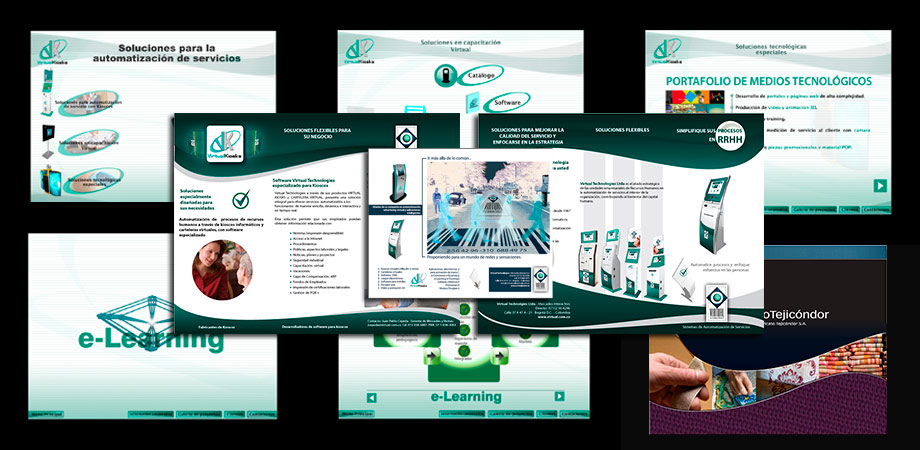
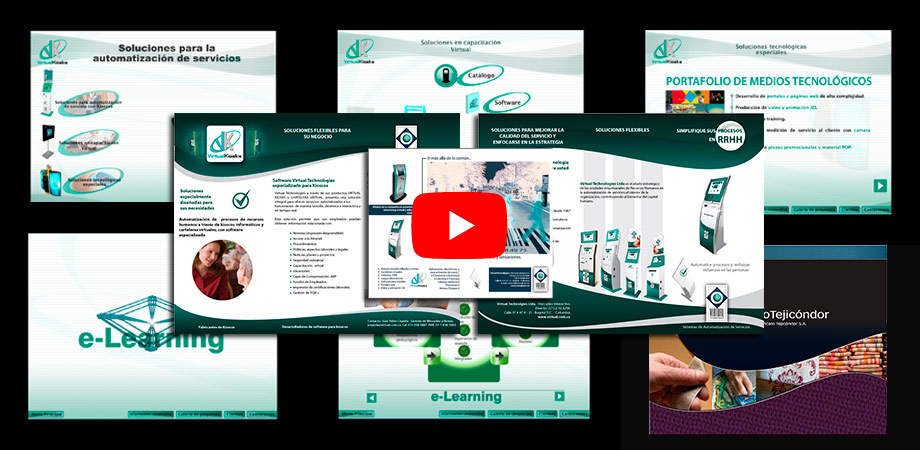
full responsive iframe is done

Changed region(s): [[0.4261, 0.4044, 0.5783, 0.5911]]

diff --git a/scss/flutest.scss b/scss/flutest.scss
@@ -22,13 +22,7 @@
 				.scrollerTittle{
 					display: $mobileScroll;
 				}
-				.descriptors{
-					display:$infoDetail !important; 
-					color:#666;
-					font-size:$sizeInfo !important;
-					font-family: "cyberfont";
-					font-weight:200;
-				}
+			
 				
 				#sektorZero{
 					width:100%; 
@@ -52,7 +46,6 @@
 					height:500px;
 					background-color:#FFF;
 					cursor:pointer;
-					position:relative;
 					animation:myMove 3s;
 					animation-duration:1s;
 					/* Firefox */
@@ -64,15 +57,46 @@
 					/* Opera */
 					-o-animation:myMove 3s;
 					-o-animation-duration:1s;
+					
+					position: relative;
+    				overflow: hidden;
+    				padding-top: 48vh;
+					
+					.media:hover{
+						cursor: pointer;
+					}
+					.dataDesc{
+						background-color: #012F40;
+						opacity: 0.6;
+						.descriptors{
+							position: relative;
+							display:$infoDetail !important; 
+							color:#03BBFF;
+							font-size:$sizeInfo !important;
+							font-family: "cyberfont";
+							font-weight:200;
+							padding-bottom: 5px;
+						
+						}
+					}
+					
+					
+				
 					a{
-						color: #03b7fa;
+						color: white;
 						font-size:18px;
 						font-weight:bolder;
 
 					}
+					
 					iframe{
+						position: absolute;
+						top: 0;
+						left: 0;
 						width: 100%;
-						height:42vh;
+						height: 100%;
+						border: 0;
+						
 					}
 					
 				}

diff --git a/js/translate.js b/js/translate.js
@@ -16,6 +16,8 @@ $(function(){
 			$(this).on('click', function (event) {
 				if(media != null){
 					document.getElementById(place).src = media;
+					document.getElementById(place).style.width = "100%";
+					document.getElementById(place).style.height = "50vh";
 				}
 			});
 		});

diff --git a/scss/flutest.css b/scss/flutest.css
@@ -1,0 +1,3 @@
+@font-face {
+  font-family: 'cyberfont';
+  src: url(../fonts/OCRAEXT.TTF) format("truetype"); }

diff --git a/sessions/contact.php b/sessions/contact.php
@@ -9,7 +9,7 @@
 </head>
 
 <body>
-	
+	<div style="overflow-x:auto;">
 	<table>
 		<tr>
 			
@@ -38,7 +38,7 @@
 			
 			
 			
-			<td>
+			<td style="top: 0px;">
 				 
 			 	<form action="sessions/contacto/phpmailer/enviarCorreo.php" method="post" name="form1" id="form1" onsubmit="MM_validateForm('nombres','','R','empresa','','R','email','','RisEmail','ciudad','','R','telefono','','RisNum','mensaje','','R');return document.MM_returnValue">
 				 	Name<br>
@@ -53,7 +53,39 @@
 				 	E-mail<br>
           		 	<input name="email" type="text" size="39" id="email" border="0"/><br>
 				 
-				 	Country<br>
+				 
+				 	Phone<br>
+            			<input name="telefono" type="text" size="40" id="telefono" border="0"/><br>
+					Message:<br>
+            		<textarea name="mensaje"  cols="40" rows="2" id="mensaje" border="0"></textarea><br>
+				
+				 	<h5>All form spaces are required,we dont send massive mail to our costumers</h5>
+					<div class="g-recaptcha" data-sitekey="6LepvUMUAAAAAAYQ6_9ItBa6TFX6CWKl7SL5i-LK"></div>
+				 
+					<input type="submit" name="Submit" value="Send mail"> <input type="reset" name="Submit2" value="Restore" />
+				
+				</form>
+				<script src='https://www.google.com/recaptcha/api.js?hl=en'></script>
+		    </td>
+			
+			
+    	
+			
+			
+		</tr>
+	</table>
+</div>
+  
+</body>
+
+	
+</html>
+
+
+
+<!--
+
+	Country<br>
           		
 						<select name="pais" id="pais" border="0">
 							<option value="NoPlace" >:::::::::::::::::::::Choose your country:::::::::::::::::::::</option>
@@ -309,29 +341,4 @@
 				 
 					City<br>
             			<input name="ciudad" type="text" id="ciudad" size="39" border="0" /><br>
-				 	Phone<br>
-            			<input name="telefono" type="text" size="40" id="telefono" border="0"/><br>
-					Message:<br>
-            		<textarea name="mensaje"  cols="40" rows="7" id="mensaje" border="0"></textarea><br>
-				
-				 	<h5>All form spaces are required,we dont send massive mail to our costumers</h5>
-					<div class="g-recaptcha" data-sitekey="6LepvUMUAAAAAAYQ6_9ItBa6TFX6CWKl7SL5i-LK"></div>
-				 
-					<input type="submit" name="Submit" value="Send mail"> <input type="reset" name="Submit2" value="Restore" />
-				
-				</form>
-				<script src='https://www.google.com/recaptcha/api.js?hl=en'></script>
-		    </td>
-			
-			
-    	
-			
-			
-		</tr>
-	</table>
-
-  
-</body>
-
-	
-</html>
+-->

diff --git a/sessions/infoSection.php b/sessions/infoSection.php
@@ -13,7 +13,13 @@
 <link href="../css/menu.css" rel="stylesheet" type="text/css" />
 </head>
 <body>
- <div class="boxShow" align="center"><iframe class="media"  id="spot1" src = "" frameborder="0" scrolling="no"></iframe><div id="descriptorInfo1" class="descriptors"></div><br><div id="descriptorInfo2" class="descriptors"></div><br><div id="descriptorInfo3" class="descriptors"></div><br> &lt;<a>&#129172; back to menu</a></div>
+ <div class="boxShow" align="center"><iframe class="media"  id="spot1" src = "" frameborder="0" scrolling="no" allowfullscreen></iframe>
+	 <div class="dataDesc"> 
+		 <div id="descriptorInfo1" class="descriptors"></div>
+		 <div id="descriptorInfo2" class="descriptors"></div>
+		 <div id="descriptorInfo3" class="descriptors"></div>
+		<a>&#129172; back to menu</a></div>
+	 </div>
  
   <div class="menuInfo">
  	<div class="scrollerTittle"><a>Scroll and click image to see info</a></div>

diff --git a/sessions/learnSection.php b/sessions/learnSection.php
@@ -11,7 +11,13 @@
 <link href="../css/menu.css" rel="stylesheet" type="text/css" />
 </head>
 <body>
-<div class="boxShow" align="center"><iframe class="media" id="spot2" src = "" frameborder="0" scrolling="no"></iframe><div id="descriptorLearn1"  class="descriptors"></div><p><div id="descriptorLearn2"  class="descriptors"></div></p><p><div id="descriptorLearn3"  class="descriptors"></div></p><p> &lt; <br><a>&#129172; back to menu</a></div>
+<div class="boxShow" align="center"><iframe class="media" id="spot2" src = "" frameborder="0" scrolling="no"></iframe>
+	<div class="dataDesc"> 
+		<div id="descriptorLearn1"  class="descriptors"></div>
+		<div id="descriptorLearn2"  class="descriptors"></div>
+		<div id="descriptorLearn3"  class="descriptors"></div>
+		<a>&#129172; back to menu</a></div>
+	</div>
 
 <div  class="menuInfo">
  <div class="scrollerTittle"><a>Scroll and click image to see info</a></div>

diff --git a/sessions/funnySection.php b/sessions/funnySection.php
@@ -12,7 +12,13 @@
 </head>
 
 <body>
-<div class="boxShow" align="center"><iframe class="media" id="spot3" src = "" frameborder="0" scrolling="no"></iframe><div id="descriptorFun1" class="descriptors"></div><p><div id="descriptorFun2" class="descriptors"></div></p><p><div id="descriptorFun3" class="descriptors"></div></p><br> &lt; <a>&#129172; back to menu</a></div>
+<div class="boxShow" align="center"><iframe class="media" id="spot3" src = "" frameborder="0" scrolling="no"></iframe>
+	<div class="dataDesc"> 
+		<div id="descriptorFun1" class="descriptors"></div>
+		<div id="descriptorFun2" class="descriptors"></div>
+		<div id="descriptorFun3" class="descriptors"></div>
+		<a>&#129172; back to menu</a></div>
+	</div>
  
  <div class="menuInfo">
  
